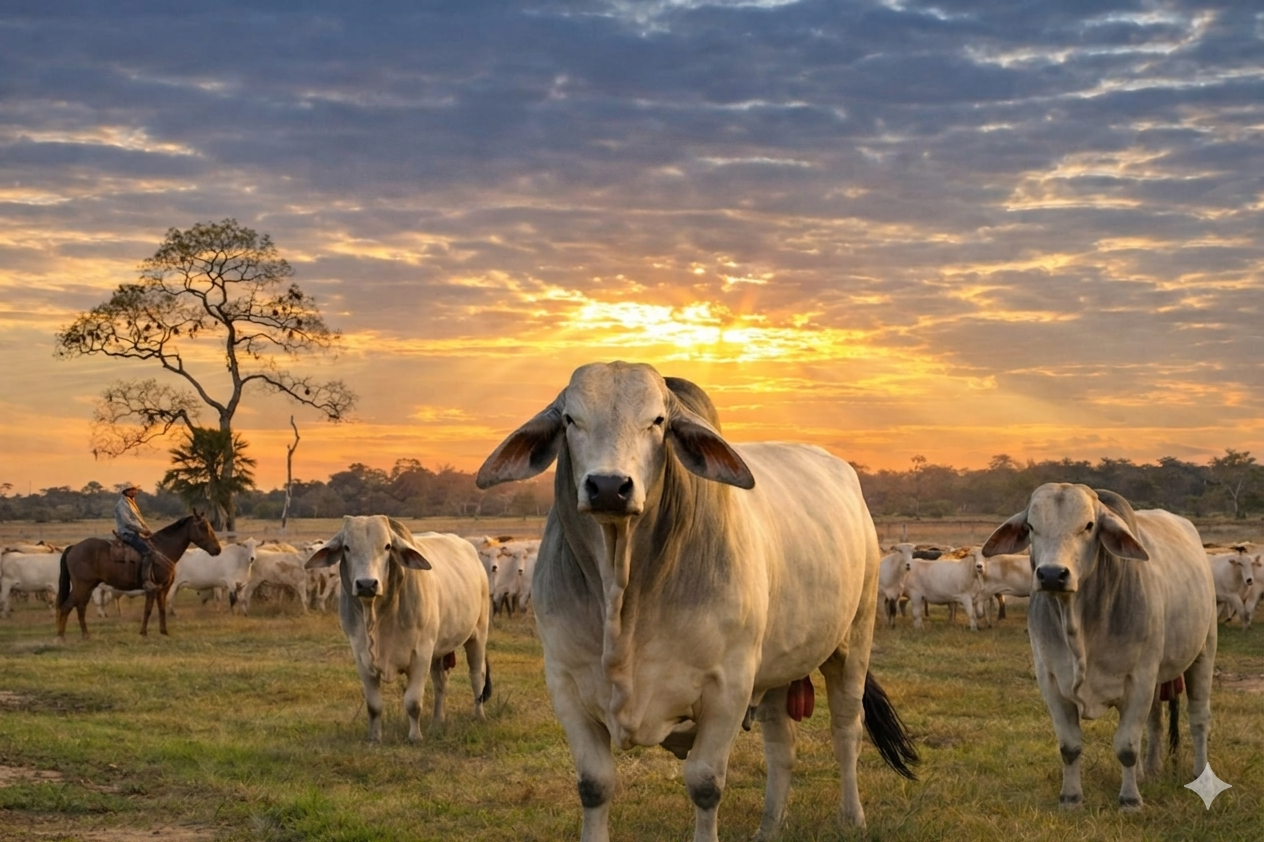
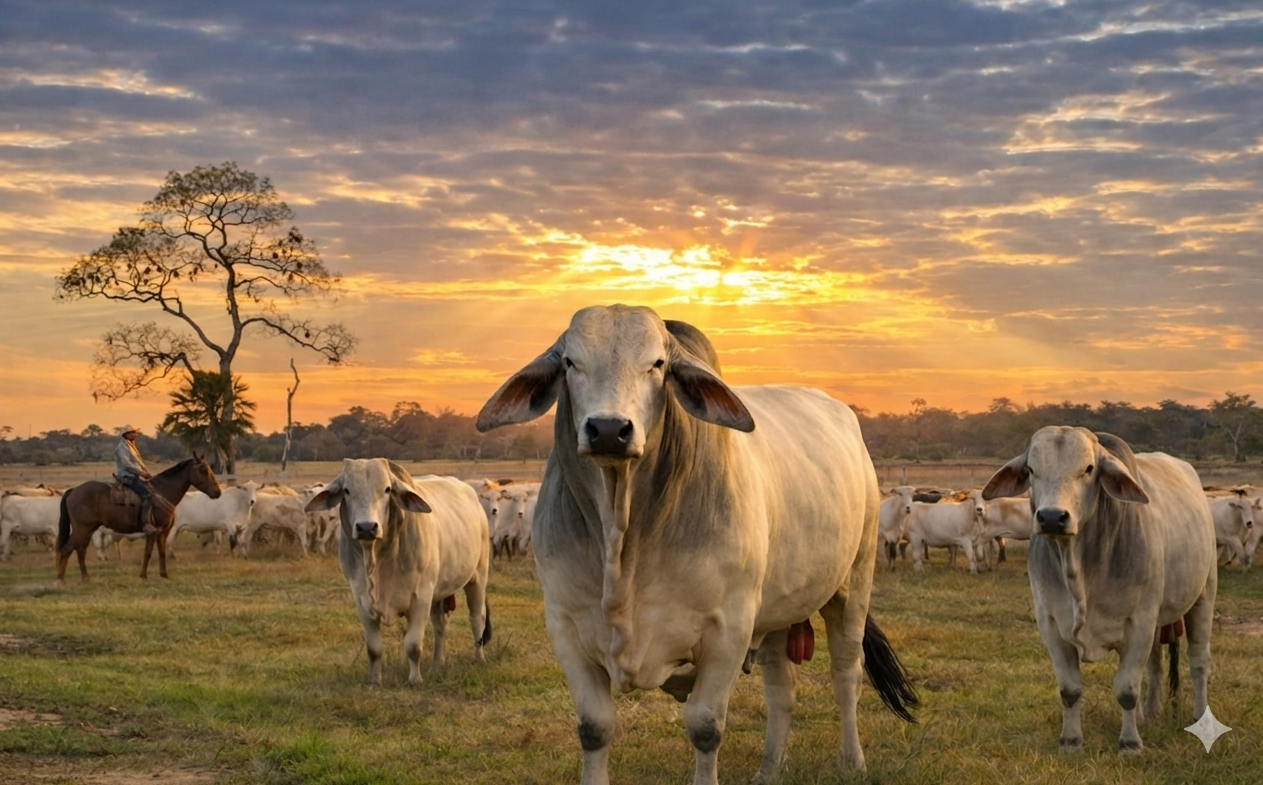
fix: bugs

diff --git a/src/features/layout/nav-bar/desktop-nav-bar.tsx b/src/features/layout/nav-bar/desktop-nav-bar.tsx
@@ -51,33 +51,35 @@ export function DesktopNavBar({
             return (
               <NavigationMenuItem key={href}>
                 <NavigationMenuLink asChild>
-                  <Link
-                    href={href}
-                    target={external ? "_blank" : undefined}
-                    rel={external ? "noopener noreferrer" : undefined}
-                    className={cn(
-                      /* base */
-                      "relative inline-flex items-center gap-1 px-4 py-2",
-                      "font-sans text-[9.5px] font-normal tracking-[0.18em] uppercase",
-                      "outline-none transition-colors duration-200",
-                      "focus-visible:ring-1 focus-visible:ring-ring",
-                      /* underline animado con accent */
-                      "after:absolute after:inset-x-4 after:bottom-[5px] after:h-px",
-                      "after:bg-accent after:origin-left after:transition-transform after:duration-200",
-                      /* estados */
-                      isActive
-                        ? "text-foreground after:scale-x-100"
-                        : "text-foreground/60 after:scale-x-0 hover:text-foreground hover:after:scale-x-100",
-                    )}
-                  >
-                    {label}
-                    {external && (
-                      <ArrowUpRight
-                        className="size-2.5 opacity-50"
-                        strokeWidth={2}
-                      />
-                    )}
-                  </Link>
+                  <Button variant={"ghost"}>
+                    <Link
+                      href={href}
+                      target={external ? "_blank" : undefined}
+                      rel={external ? "noopener noreferrer" : undefined}
+                      className={cn(
+                        /* base */
+                        "relative inline-flex items-center gap-1 px-4 py-2",
+                        "font-sans text-[9.5px] font-normal tracking-[0.18em] uppercase",
+                        "outline-none transition-colors duration-200",
+                        "focus-visible:ring-1 focus-visible:ring-ring",
+                        /* underline animado con accent */
+                        "after:absolute after:inset-x-4 after:bottom-[5px] after:h-px",
+                        "after:bg-accent after:origin-left after:transition-transform after:duration-200",
+                        /* estados */
+                        isActive
+                          ? "text-foreground after:scale-x-100"
+                          : "text-foreground/60 after:scale-x-0 hover:text-foreground hover:after:scale-x-100",
+                      )}
+                    >
+                      {label}
+                      {external && (
+                        <ArrowUpRight
+                          className="size-2.5 opacity-50"
+                          strokeWidth={2}
+                        />
+                      )}
+                    </Link>
+                  </Button>
                 </NavigationMenuLink>
               </NavigationMenuItem>
             );

diff --git a/src/features/home/components/photo-carousel.tsx b/src/features/home/components/photo-carousel.tsx
@@ -106,16 +106,16 @@ export function PhotoCarousel() {
               key={photo.id}
               onClick={() => goTo(i)}
               aria-label={photo.alt}
-              className="absolute top-1/2 -translate-y-1/2 cursor-pointer overflow-hidden rounded-sm border-0 bg-transparent p-0 outline-none"
+              className="absolute top-1/2 -translate-y-1/2 cursor-pointer overflow-hidden rounded-sm bg-transparent p-0 outline-none"
               style={{
-                width: 480,
-                height: 360,
+                width: "clamp(380px, 38vw, 480px)",
+                height: "clamp(335px, 28.5vw, 360px)",
                 ...styleMap[pos],
                 transition: `all ${TRANSITION_MS}ms cubic-bezier(0.4, 0, 0.2, 1)`,
               }}
             >
               {/* Gold frame border */}
-              <span
+              {/* <span
                 className="pointer-events-none absolute inset-0 z-10"
                 style={{
                   boxShadow:
@@ -124,7 +124,7 @@ export function PhotoCarousel() {
                       : "inset 0 0 0 1px color-mix(in oklch, var(--accent) 20%, transparent)",
                   transition: `box-shadow ${TRANSITION_MS}ms ease`,
                 }}
-              />
+              /> */}
               <img
                 src={photo.src}
                 alt={photo.alt}
@@ -134,13 +134,13 @@ export function PhotoCarousel() {
               />
               {/* Caption overlay — only active */}
               <span
-                className="absolute bottom-0 left-0 right-0 flex flex-col items-center pb-5 pt-12"
-                style={{
-                  background:
-                    "linear-gradient(to top, color-mix(in oklch, var(--foreground) 85%, transparent) 0%, transparent 100%)",
-                  opacity: pos === "center" ? 1 : 0,
-                  transition: `opacity ${TRANSITION_MS}ms ease`,
-                }}
+                className="absolute bg-linear-to-t from-foreground bottom-0 left-0 right-0 flex flex-col items-center pb-5 pt-12"
+                // style={{
+                //   background:
+                //     "linear-gradient(to top, color-mix(in oklch, var(--foreground) 85%, transparent) 0%, transparent 100%)",
+                //   opacity: pos === "center" ? 1 : 0,
+                //   transition: `opacity ${TRANSITION_MS}ms ease`,
+                // }}
               >
                 <span className="text-eyebrow">{photo.caption}</span>
               </span>

diff --git a/src/features/home/components/presentations.tsx b/src/features/home/components/presentations.tsx
@@ -5,7 +5,7 @@ import Image from "next/image";
 
 export function Presentations() {
   return (
-    <div className="relative z-10 flex flex-col h-fit w-dvw items-center justify-center md:items-center bg-amber-500">
+    <div className="relative z-10 flex flex-col h-full w-dvw items-center justify-center md:items-center">
       <div className="w-full mx-4 sm:mx-20 max-w-8xl h-full grid md:grid-cols-2 gap-10 lg:gap-0">
         {/* Panel — ocupa el 46% derecho en desktop, full en mobile */}
         <LeftPresentation />
@@ -146,7 +146,8 @@ function LeftPresentation() {
       <div
         className={cn(
           // Agregamos max-h-full para capar la altura y forzar al ancho a adaptarse
-          "relative hidden md:flex items-center justify-center w-[80%] sm:w-[80%] md:w-full lg:w-[90%] xl:w-[60%] 2xl:w-[50%] max-h-full aspect-square",
+          "relative hidden md:flex items-center justify-center w-[80%] sm:w-[80%] md:w-full lg:w-[90%] xl:w-[60%] 2xl:w-[50%] max-h-full aspect-4/3",
+          " rounded-4xl overflow-hidden",
           slideIn.left,
           "duration-1000",
         )}
@@ -156,7 +157,7 @@ function LeftPresentation() {
           alt="tabla"
           fill
           sizes="(max-width: 1024px) 40vw, (max-width: 1536px) 35vw, 30vw"
-          className="object-contain rounded-2xl drop-shadow-[0_10px_10px_rgba(0,0,0,0.5)]"
+          className="object-contain drop-shadow-[0_10px_10px_rgba(0,0,0,0.5)] rounded-4xl"
         />
       </div>
     </div>

diff --git a/src/features/home/components/hero.tsx b/src/features/home/components/hero.tsx
@@ -39,18 +39,17 @@ export function Hero({
   imageAlt = "Manada de toros Brahman al atardecer — Santa Rosa, Beni",
 }: HeroProps) {
   return (
-    <div>
+    <div className="flex flex-col overflow-hidden">
       {/* ── Imagen de fondo ─────────────────────────── */}
       <BackgroundImage imageSrc={imageSrc} alt={imageAlt} />
       <section
         aria-label="Hero principal"
-        className="relative flex h-[200dvh] w-full flex-col overflow-hidden mt-[-100dvh]"
+        className="relative flex flex-col h-[calc(100dvh-72px)] w-full mt-[-100dvh]"
       >
         {/* ── Contenido ────────────────────────────────── */}
         <OverlayHero />
         <HeroTitle />
         <Presentations />
-        <PhotoCarousel />
 
         {/* ── Badge superior izquierdo (solo desktop) ── */}
 
@@ -65,6 +64,9 @@ export function Hero({
         >
           — Genética de Élite · Brahman Americano —
         </p>
+      </section>
+      <section className="w-full h-dvh">
+        <PhotoCarousel />
       </section>
     </div>
   );

diff --git a/src/features/layout/nav-bar/nav-bar.tsx b/src/features/layout/nav-bar/nav-bar.tsx
@@ -14,10 +14,7 @@ export function NavBar() {
       <div className="h-full flex items-center justify-between px-2 md:px-6">
         {/* Logo aquí */}
         <Button variant={"ghost"}>
-          <Link
-            href={"/"}
-            className="flex items-center justify-start xl:gap-10"
-          >
+          <Link href={"/"} className="flex items-center justify-start xl:gap-4">
             <Image src={"/brand_logo.svg"} alt="AN" width={50} height={50} />
             <h1 className="border border-primary py-1.5 px-4 rounded-[60%/60%] shadow-sm shadow-foreground/40 items-center hidden xl:block">
               Alsasi SRL

diff --git a/src/app/layout.tsx b/src/app/layout.tsx
@@ -34,7 +34,7 @@ export default function RootLayout({
       <body className="min-h-full flex flex-col">
         <ThemeProvider>
           <NavBar />
-          <main className="pt-18">{children}</main>
+          <main className="pt-18 flex-1">{children}</main>
           <footer className="w-full h-fit bg-muted flex items-center justify-center text-sm">
             <Footer />
           </footer>

diff --git a/src/components/ui/background-image.tsx b/src/components/ui/background-image.tsx
@@ -12,7 +12,7 @@ export function BackgroundImage({
   className,
 }: BackGroundImageProps) {
   return (
-    <div className={`sticky top-0 h-dvh w-full ${className} `}>
+    <div className={`sticky top-0 h-dvh w-full ${className}`}>
       <div className={`relative inset-0 w-full h-full `}>
         <Image
           className={`object-cover`}

diff --git a/src/app/page.tsx b/src/app/page.tsx
@@ -3,10 +3,8 @@ import Image from "next/image";
 
 export default function Home() {
   return (
-    <div className="">
-      <main className="">
-        <Hero />
-      </main>
-    </div>
+    <>
+      <Hero />
+    </>
   );
 }
